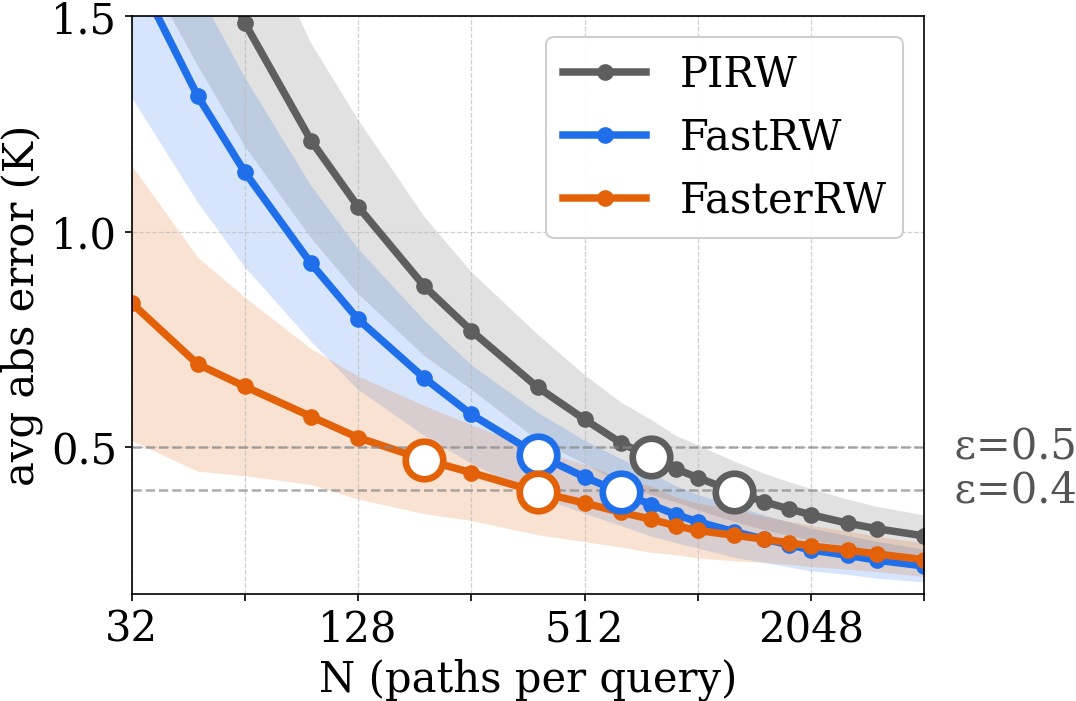
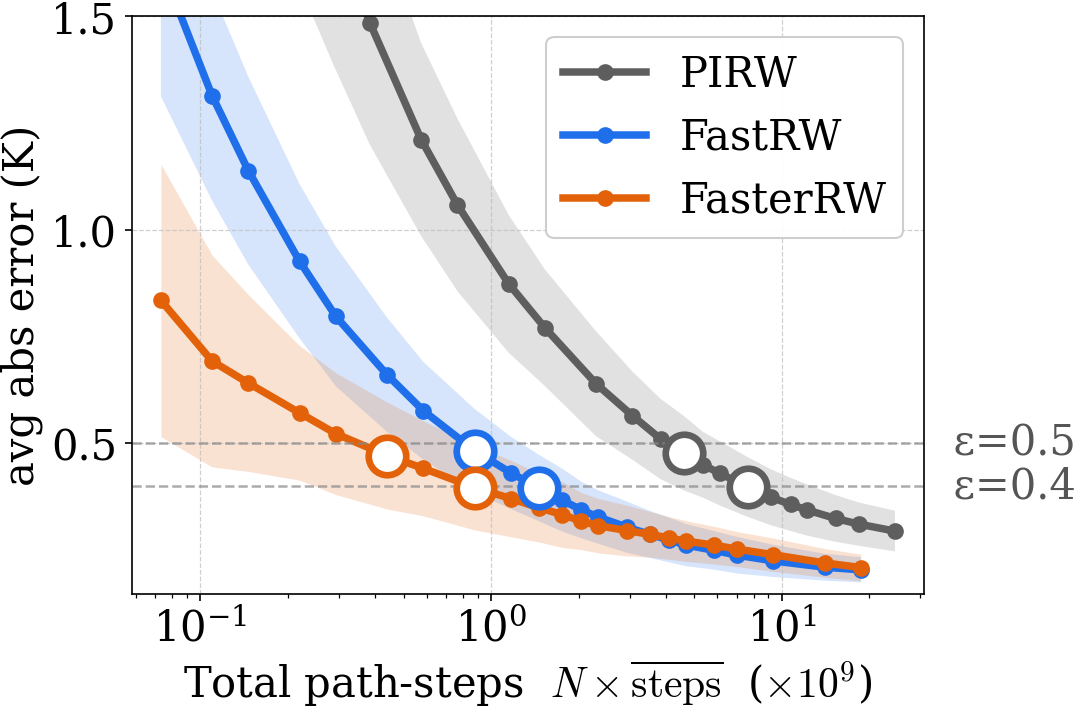
Bootstrap fig: switch x-axis from N to total path-steps
Switch scripts/plot_bootstrap_curves.py x-axis from N (paths per query)
to N x mean_avg_steps (total path-step work, log-scaled, units 1e9).
PIRW paths run full length, FastRW truncates at Lambda, so the same N
corresponds to ~2.6x less work for FastRW; the previous N-on-x plot
visually under-represented that gap on a fair compute-cost basis.

Per-case x-range now derives from the union of the three curves with a
small log-space pad. Hollow-circle (method, eps) crossing markers and
the eps guide lines on the right are preserved.

docs/figures/bootstrap_case{1,2,3}.png regenerated to match.

Companion change in the paper repo (TCAD-FastRW-v1):
- figs/bootstrap_case{1,2,3}.pdf replaced with the new path-step versions.
- figs/make_bootstrap_curves.py deleted; bootstrap figure generation now
  lives only in scripts/plot_bootstrap_curves.py here.

diff --git a/scripts/plot_bootstrap_curves.py b/scripts/plot_bootstrap_curves.py
@@ -60,8 +60,6 @@ COLORS = {
     "fasterrw": "#e36209",   # orange
 }
 
-XMIN, XMAX = 32, 4096
-
 # Unified font size for every text element.
 FS = 20
 
@@ -70,21 +68,31 @@ YMAX = 1.5
 
 
 def load_curve(json_path: Path, prefix: str):
-    """Return (Ns, means, stds) sorted by N for the given method prefix."""
+    """Return (Xs, means, stds) sorted by X = N * mean_avg_steps.
+
+    X measures total path-step work (the fair compute-cost axis): PIRW
+    paths run full length, FastRW truncates, so the same N corresponds
+    to very different amounts of work.
+    """
     with open(json_path) as f:
         data = json.load(f)
     rows = sorted(data["results"], key=lambda r: r["N"])
+    # Per-N mean_avg_steps if present (FastRW sweeps log it per row);
+    # otherwise fall back to the top-level scalar.
+    fallback_steps = data.get("mean_avg_steps")
+    steps = np.array([r.get("mean_avg_steps", fallback_steps) for r in rows], dtype=float)
     Ns = np.array([r["N"] for r in rows], dtype=float)
+    Xs = Ns * steps
     means = np.array([r[f"{prefix}_avg_abs_mean"] for r in rows], dtype=float)
     stds = np.array([r[f"{prefix}_avg_abs_std"] for r in rows], dtype=float)
-    return Ns, means, stds
+    return Xs, means, stds
 
 
-def pick_N_star(Ns, means, eps):
-    """Smallest N where mean <= eps."""
-    for n, m in sorted(zip(Ns.tolist(), means.tolist())):
+def pick_x_star(Xs, means, eps):
+    """Smallest X where mean <= eps."""
+    for x, m in sorted(zip(Xs.tolist(), means.tolist())):
         if m <= eps:
-            return n, m
+            return x, m
     return None
 
 
@@ -97,66 +105,75 @@ def plot_one_case(case):
                 f"{p} not found -- run scripts/run_bootstrap_sweep.sh first."
             )
 
-    pN, pM, pS = load_curve(pirw_json, "direct")
-    fN, fM, fS = load_curve(fastrw_json, "fastrw")
-    feN, feM, feS = load_curve(fastrw_json, "fasterrw")
+    pX, pM, pS = load_curve(pirw_json, "direct")
+    fX, fM, fS = load_curve(fastrw_json, "fastrw")
+    feX, feM, feS = load_curve(fastrw_json, "fasterrw")
+
+    # Rescale to billions of path-steps for axis readability.
+    UNIT = 1e9
+    pXu, fXu, feXu = pX / UNIT, fX / UNIT, feX / UNIT
 
     fig, ax = plt.subplots(figsize=(7, 5), dpi=150)
 
-    def plot_curve(ax, Ns, means, stds, color, label):
-        ax.plot(Ns, means, color=color, lw=3.6, label=label, marker="o", ms=7)
-        ax.fill_between(Ns, means - stds, means + stds, color=color, alpha=0.18, linewidth=0)
+    def plot_curve(ax, Xs, means, stds, color, label):
+        ax.plot(Xs, means, color=color, lw=3.6, label=label, marker="o", ms=7)
+        ax.fill_between(Xs, means - stds, means + stds, color=color, alpha=0.18, linewidth=0)
 
-    plot_curve(ax, pN, pM, pS, COLORS["pirw"], "PIRW")
-    plot_curve(ax, fN, fM, fS, COLORS["fastrw"], "FastRW")
-    plot_curve(ax, feN, feM, feS, COLORS["fasterrw"], "FasterRW")
+    plot_curve(ax, pXu, pM, pS, COLORS["pirw"], "PIRW")
+    plot_curve(ax, fXu, fM, fS, COLORS["fastrw"], "FastRW")
+    plot_curve(ax, feXu, feM, feS, COLORS["fasterrw"], "FasterRW")
+
+    # x range: union of all three curves on log scale.
+    xmin = float(min(pXu.min(), fXu.min(), feXu.min()))
+    xmax = float(max(pXu.max(), fXu.max(), feXu.max()))
+    # Pad in log space.
+    log_pad = 0.04 * (np.log10(xmax) - np.log10(xmin))
+    xlo = 10 ** (np.log10(xmin) - log_pad)
+    xhi = 10 ** (np.log10(xmax) + log_pad)
 
     # Horizontal eps guide lines (dashed; labelled on the right at FS).
     for eps in EPS_LIST:
         ax.axhline(eps, color="#888", ls="--", lw=1.2, alpha=0.7)
-        ax.text(XMAX * 1.02, eps, f"  ε={eps}", va="center", ha="left",
+        ax.text(xhi * 1.02, eps, f"  ε={eps}", va="center", ha="left",
                 fontsize=FS, color="#555")
 
-    # Mark N* per (method, eps) with hollow circles only (no text label).
-    for Ns, means, color in [
-        (pN, pM, COLORS["pirw"]),
-        (fN, fM, COLORS["fastrw"]),
-        (feN, feM, COLORS["fasterrw"]),
+    # Mark X* per (method, eps) with hollow circles only (no text label).
+    for Xs, means, color in [
+        (pXu, pM, COLORS["pirw"]),
+        (fXu, fM, COLORS["fastrw"]),
+        (feXu, feM, COLORS["fasterrw"]),
     ]:
         for eps in EPS_LIST:
-            star = pick_N_star(Ns, means, eps)
+            star = pick_x_star(Xs, means, eps)
             if star is None:
                 continue
-            n, m = star
+            x, m = star
             ax.plot(
-                n, m,
+                x, m,
                 marker="o", markerfacecolor="white", markeredgecolor=color,
                 markersize=18, markeredgewidth=3.2, zorder=5,
             )
 
     # Axes
-    ax.set_xscale("log", base=2)
-    ax.set_xlim(XMIN, XMAX)
-    xticks = [32, 64, 128, 256, 512, 1024, 2048, 4096]
-    # Keep ticks at every position, label every other one (32, 128, 512, 2048).
-    ax.set_xticks(xticks)
-    ax.set_xticklabels([str(x) if i % 2 == 0 else "" for i, x in enumerate(xticks)])
+    ax.set_xscale("log")
+    ax.set_xlim(xlo, xhi)
 
     # y range: fixed upper bound (YMAX) shared across cases; lower bound
     # snug under the lowest shaded band so the curves hug the bottom edge.
-    def lower_band(Ns, M, S):
-        mask = (Ns >= XMIN) & (Ns <= XMAX)
+    def lower_band(Xs, M, S):
+        mask = (Xs >= xlo) & (Xs <= xhi)
         return M[mask] - S[mask]
     ymin_data = float(np.concatenate([
-        lower_band(pN, pM, pS),
-        lower_band(fN, fM, fS),
-        lower_band(feN, feM, feS),
+        lower_band(pXu, pM, pS),
+        lower_band(fXu, fM, fS),
+        lower_band(feXu, feM, feS),
     ]).min())
     ymin = max(0.0, ymin_data - 0.02 * (YMAX - ymin_data))
     ax.set_ylim(ymin, YMAX)
     ax.yaxis.set_major_locator(MultipleLocator(0.5))
 
-    ax.set_xlabel("N (paths per query)", fontsize=FS)
+    ax.set_xlabel(r"Total path-steps  $N \times \overline{\mathrm{steps}}$  ($\times 10^9$)",
+                  fontsize=FS)
     ax.set_ylabel("avg abs error (K)", fontsize=FS)
     ax.tick_params(axis="both", labelsize=FS)
     ax.grid(True, which="major", ls="--", lw=0.6, color="#bbb", alpha=0.7)
